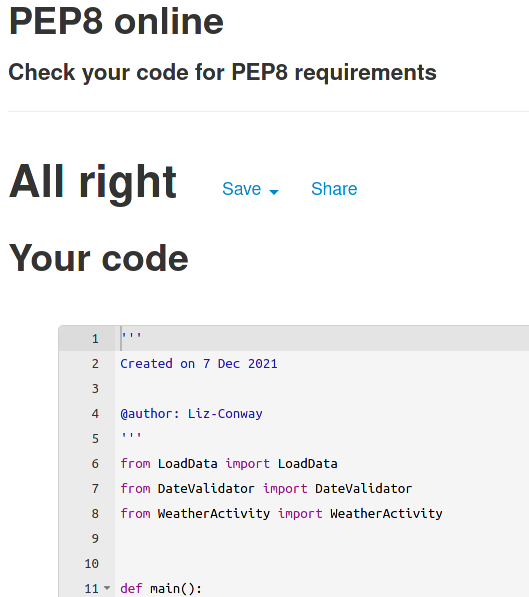
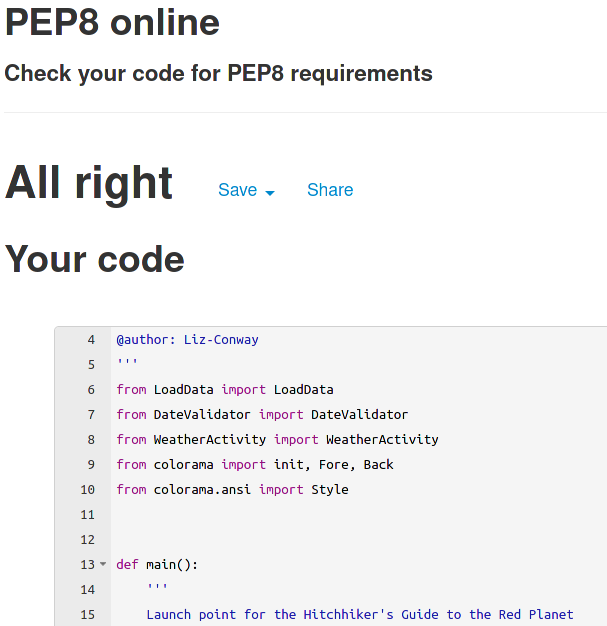
FIX: PEP8 Validation errors

diff --git a/HitchhikersGuide.py b/HitchhikersGuide.py
@@ -104,14 +104,19 @@ def main():
 
         # Get the median temperature for the entire set of data
         median_temperature = load_data.get_median_temperature()
-    
+
         # Get the median air pressure for the entire set of data
         median_air_pressure = load_data.get_median_air_pressure()
-    
+
         # WeatherActivity uses the median temperature and air pressure
         # to determine whether a particular day's value is "High" or "Low"
-        weather_activity = WeatherActivity(median_temperature, median_air_pressure)
-    
+        # PEP8 validation - creating duplicate variables with tiny names
+        # because PEP8 complains about both long variable names
+        # AND splitting the line using a continuation character
+        med_temp = median_temperature
+        med_press = median_air_pressure
+        weather_activity = WeatherActivity(med_temp, med_press)
+
         # Retrieve the activities for the entered date and stay days
         activities = []
         for weather_day in weather_days:
@@ -120,17 +125,17 @@ def main():
                 temp_col = Fore.CYAN + Style.BRIGHT + Back.BLUE
                 press_col = Fore.GREEN + Style.BRIGHT + Back.BLUE
                 opacity_col = Fore.LIGHTYELLOW_EX + Back.BLUE
-                day_activity += "  " + temp_col 
-                day_activity += str(weather_day.temperature) 
+                day_activity += "  " + temp_col
+                day_activity += str(weather_day.temperature)
                 day_activity += " degrees" + Back.RESET
-                day_activity += "  " + press_col 
-                day_activity += str(weather_day.air_pressure) 
+                day_activity += "  " + press_col
+                day_activity += str(weather_day.air_pressure)
                 day_activity += " Pascal" + Back.RESET
-                day_activity += "  " + opacity_col 
+                day_activity += "  " + opacity_col
                 day_activity += weather_day.opacity + Fore.RESET + Back.RESET
                 day_activity += Style.RESET_ALL
             activities.append(day_activity)
-    
+
         # If the user wants the weather data
         # then display the median temperature and air pressure
         if show_weather == "Y":
@@ -142,7 +147,7 @@ def main():
             median_pressure_display += Fore.GREEN + f"{median_air_pressure}"
             median_pressure_display += " Pascal" + Fore.RESET
             print(median_pressure_display)
-            
+
         # PEP8 Validation split the text string
         # because it goes beyond 80 characters
         congrats = "\nCongratulations the following activities"
@@ -152,7 +157,7 @@ def main():
         print(congrats)
         for activity in activities:
             print(f"    {activity}")
-    
+
         # If the user choses a valid date but the number of stay days
         # will go beyond the dates in the dataset
         # print a message to the user informing them of this
@@ -178,12 +183,8 @@ def main():
     print(title + "~"*80 + Style.RESET_ALL)
 
 init()
-# from colorama import Fore, Back, Style
 title = Back.RED + Fore.LIGHTMAGENTA_EX + Style.BRIGHT
 print(title)
-# print(Back.GREEN + "& with a green background")
-# print(Style.DIM + "Dimmed text")
-# print(Style.RESET_ALL)
 print("~"*80)
 spacer = " "*21
 print("~" + spacer + "HITCHHIKER'S GUIDE TO THE RED PLANET" + spacer + "~")
@@ -196,12 +197,13 @@ instruction = Fore.RED
 # because it goes beyond 80 characters
 # blue_on_yellow = Fore.BLUE + Back.YELLOW
 instructions = instruction + " Please choose a valid arrival date "
-#instructions += blue_on_yellow + "Blue on Yellow" + Style.RESET_ALL
+# instructions += blue_on_yellow + "Blue on Yellow" + Style.RESET_ALL
 instructions += "and the number of days you will be staying"
 print(instructions)
 valid_dates = " Valid arrival dates are between "
 valid_dates += Back.LIGHTMAGENTA_EX + "15th August 2012" + Back.RESET
-valid_dates += " and " + Back.LIGHTMAGENTA_EX + "27th February 2018" + Back.RESET
+valid_dates += " and " + Back.LIGHTMAGENTA_EX
+valid_dates += "27th February 2018" + Back.RESET
 print(valid_dates)
 date_format = " Dates entered must be of the format "
 date_format += Style.BRIGHT + "yyyy-mm-dd" + Style.NORMAL

diff --git a/Sol.py b/Sol.py
@@ -18,17 +18,3 @@ class Sol():
         self.temperature = temperature
         self.opacity = opacity
         self.air_pressure = air_pressure
-
-    def __eq__(self, other):
-        return self.earth_date == other.earth_date and \
-            self.temperature == other.temperature and \
-            self.opacity == other.opacity and \
-            self.air_pressure == other.air_pressure
-
-    def __str__(self):
-        me = "Date :  " + str(self.earth_date)
-        me += "  Temp: " + str(self.temperature)
-        me += "  Opacity:  " + str(self.opacity)
-        me += "  Pressure:  " + str(self.air_pressure)
-
-        return me
